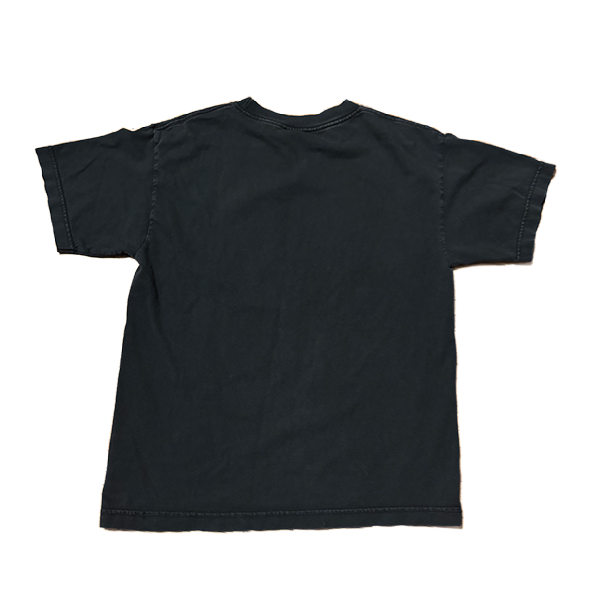
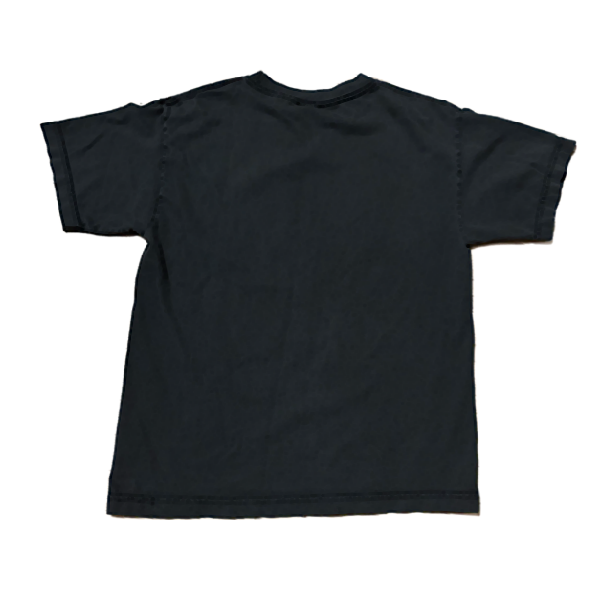
update imgs

Changed region(s): [[0.06, 0.12, 0.96, 0.9], [0.27, 0.42, 0.3, 0.45]]

diff --git a/archive.html b/archive.html
@@ -289,6 +289,24 @@
                             </section>
                         </div>          
                     </div>
+                    <!-- Heel Tank -->
+                       <div class="archive-product-card fade-in">
+                        <h5>Heel Tank</h5>
+                        <div class="contact-image-spacerT">
+                            <section id="spinning-image-section">
+                                <div class="cardT-container">
+                                    <div class="cardT">
+                                        <div class="card-face front">
+                                            <img src="imgs/tee.pngs/heelTankFront.png" alt="Front Image">
+                                        </div>
+                                        <div class="card-face back">
+                                            <img src="imgs/tee.pngs/heelTankBack.png" alt="Back Image">
+                                        </div>
+                                    </div>
+                                </div>
+                            </section>
+                        </div>          
+                    </div>
                     <!-- Blue Shirt -->
                        <div class="archive-product-card fade-in">
                         <h5>Blue Girl Shirt</h5>
